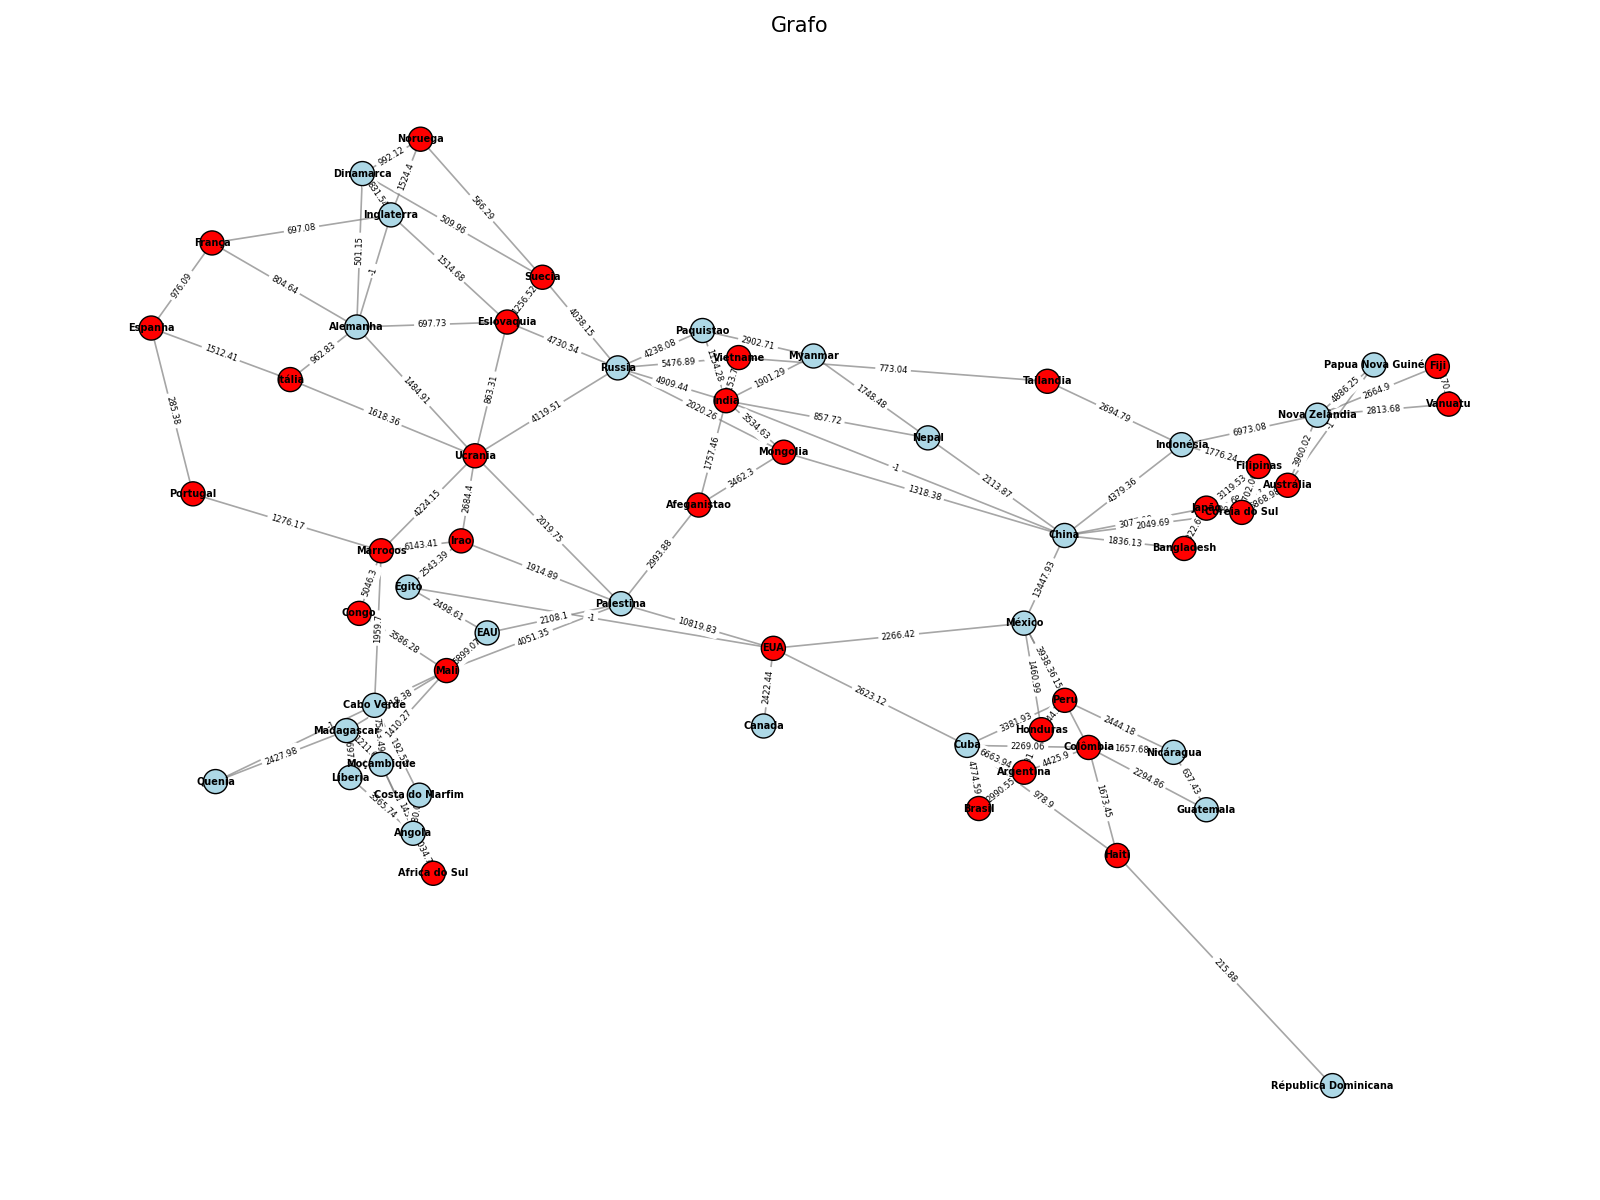
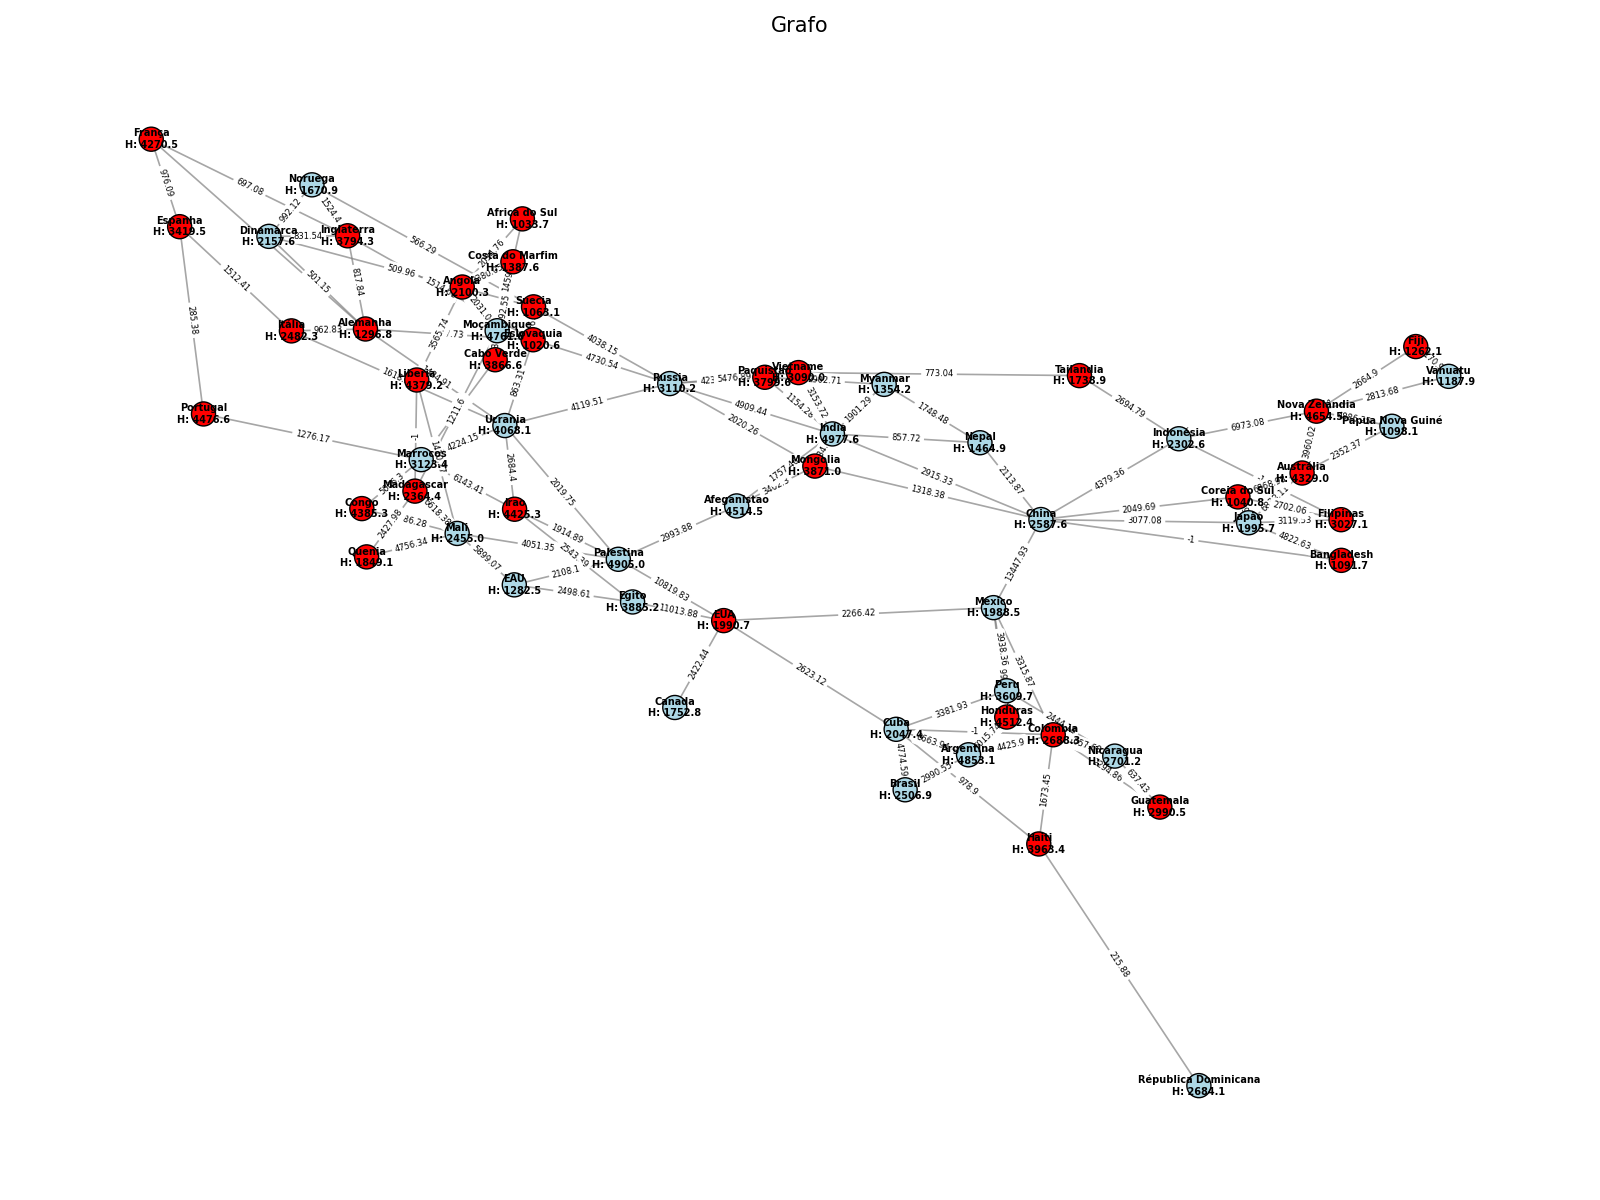
Heuristic calculated

diff --git a/src/Graph/graph.py b/src/Graph/graph.py
@@ -84,26 +84,27 @@ class Graph:
             population = row['Population']
             region = row['Region']
             accessibility = row['AccessibilityIndex']
+            criticalTime = random.randint(2000, 10080)
 
             weather = random.randint(1, 10)
-            criticalTime = random.randint(2000, 10080)
             area = Area(country, population, weather, accessibility, region, criticalTime, longitude, latitude)
 
             supplyTypeNum = random.randint(1, 4)
             supplies = []
-
-            for i in range(supplyTypeNum):
-                supply_type = random.choice(["Food", "Water", "Medicine", "Equipment"])
-                supply_name = f"{supply_type} {random.randint(1, 100)}"
-                supply_weight = random.randint(1, 100)
-                supply_quantity = random.randint(1, 100)
-                supply_shelf_life = random.choice([random.uniform(0, 10080), float('inf')])
-
-                supply = Supply(supply_type, supply_name, supply_weight, supply_quantity, supply_shelf_life)
-                supplies.append(supply)
-
-
             afected = random.choice([True,False])
+
+            if afected is True: 
+                for i in range(supplyTypeNum):
+                    supply_type = random.choice(["Food", "Water", "Medicine", "Equipment"])
+                    supply_name = f"{supply_type} {random.randint(1, 100)}"
+                    supply_weight = random.randint(1, 100)
+                    supply_quantity = random.randint(1, 100)
+                    supply_shelf_life = random.choice([random.uniform(0, 10080), float('inf')])
+
+                    supply = Supply(supply_type, supply_name, supply_weight, supply_quantity, supply_shelf_life)
+                    supplies.append(supply)
+
+
             node_id = len(self.nodes)
             node = Node(node_id, area, supplies, afected)
             self.nodes.append(node)
@@ -120,13 +121,16 @@ class Graph:
         lista_v = self.nodes
         g = nx.Graph()
         node_colors = []
+        node_labels = {}
 
         for nodo in lista_v:
             n = nodo.getName()
-            afected = getattr(nodo, 'afected', False) 
+            afected = getattr(nodo, 'afected', False)
+            heuristic = round(nodo.getHeuristic(), 1)  
             g.add_node(n)
 
             node_colors.append('red' if afected else 'lightblue')  
+            node_labels[n] = f"{n}\nH: {heuristic}"
 
             for adjacente, peso in self.graph[n]:
                 if peso == 10000000:
@@ -141,7 +145,8 @@ class Graph:
         )
         nx.draw_networkx_edges(g, pos, edge_color='gray', alpha=0.7, width=1.2)
 
-        nx.draw_networkx_labels(g, pos, font_size=7, font_color='black', font_weight='bold')
+
+        nx.draw_networkx_labels(g, pos, labels=node_labels, font_size=7, font_color='black', font_weight='bold')
 
         edge_labels = nx.get_edge_attributes(g, 'weight')
         nx.draw_networkx_edge_labels(g, pos, edge_labels=edge_labels, font_size=6, label_pos=0.5)
@@ -152,3 +157,5 @@ class Graph:
 
         plt.savefig(output_path, format='png')
         plt.close()
+
+

diff --git a/src/Types/area.py b/src/Types/area.py
@@ -6,10 +6,16 @@ class Area:
         self.longitude = longitude
         self.latitude = latitude
         self.region = str(region)
-        self.priority: float = (population * 0.4) + (weather * 0.6)
         self.density: int = population
         self.access:float = access
-        self.criticalTime: float = criticalTime
+
+        critical_impact = 1 / criticalTime if criticalTime > 0 else 0  
+        self.priority: float = (
+            (criticalTime * 0.5) +      # Peso de 50% para criticalTime
+            ((population / 10**6) * 0.2) +  # Peso de 20% para população
+            (weather * 0.2) +           # Peso de 20% para clima
+            (access * 0.1)              # Peso de 10% para acesso
+        )
 
     def getAreaName(self) -> str:
         return self.name
@@ -34,4 +40,7 @@ class Area:
     
     def updateCriticaltime(self, travelTime: float):
         self.criticalTime -= travelTime
+
+    def getPriority(self):
+        return self.priority
 

diff --git a/src/Graph/node.py b/src/Graph/node.py
@@ -33,4 +33,6 @@ class Node:
     def getAfected(self):
         return self.afected
 
+    def getHeuristic(self):
+        return self.area.getPriority()
         
